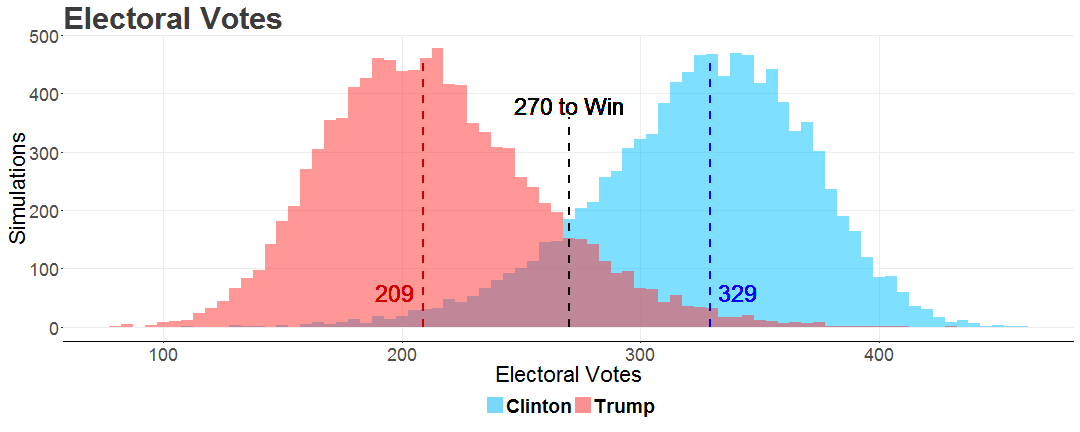
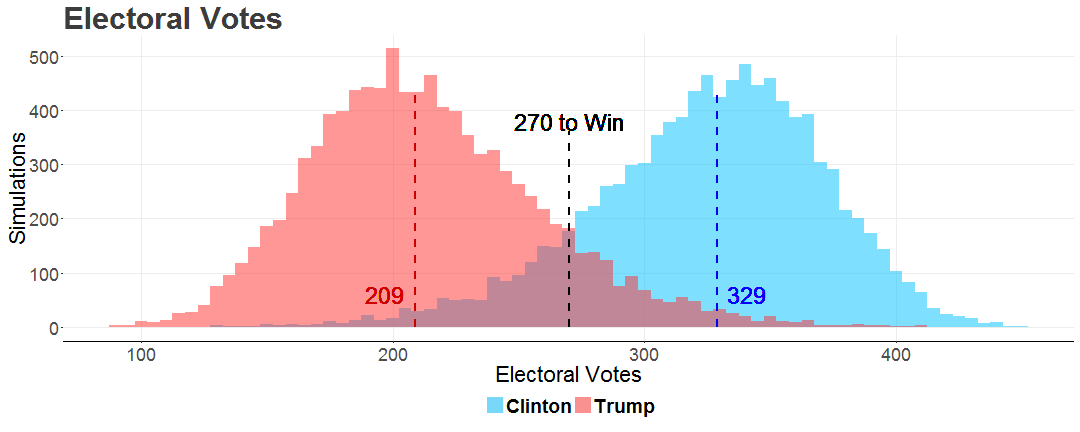
update

diff --git a/index.html b/index.html
@@ -266,7 +266,7 @@ table#t1 th {
           </div>
           <p></p>
       <div class="container" style="text-align: center;">
-        <h1><div class="alert alert-info" role="alert">Hillary Clinton has an 88.4% chance of being president</div></h1>    
+        <h1><div class="alert alert-info" role="alert">Hillary Clinton has an 88.3% chance of being president</div></h1>    
       </div>
         </div>
           <div style="text-align:right;">
@@ -420,7 +420,7 @@ table#t1 th {
           </tr>
           <tr id='t1'>
             <th id='t1'>Clinton victory while losing at least 1 swing state <small>(FL, VA, NC, PA, OH)</small></th>
-            <th id='t1'>66.2%</th>
+            <th id='t1'>65.8%</th>
           </tr>
           <tr id='t1'>
             <td id='t1'>Trump victory while losing at least 1 swing state <small>(FL, VA, NC, PA, OH)</small></td>
@@ -428,27 +428,27 @@ table#t1 th {
           </tr>
           <tr id='t1'>
             <th id='t1'>Clinton wins all 5 swing states</th>
-            <th id='t1'>22.5%</th>
+            <th id='t1'>22.6%</th>
           </tr>
           <tr id='t1'>
             <td id='t1'>Trump wins all 5 swing states</td>
-            <td id='t1'>0.6%</td>
+            <td id='t1'>0.7%</td>
           </tr>
           <tr id='t1'>
             <th id='t1'>Clinton outperforms Obama 2012 <small>(>332 EV)</small></th>
-            <th id='t1'>46.5%</th>
+            <th id='t1'>47.2%</th>
           </tr>
           <tr id='t1'>
             <td id='t1'>Trump outperforms Romney 2012 <small>(>206 EV)</small></td>
-            <td id='t1'>52.5%</td>
+            <td id='t1'>51.9%</td>
           </tr>
           <tr id='t1'>
             <th id='t1'>Clinton blowout <small>(>380 EV)</small></th>
-            <th id='t1'>9.2%</th>
+            <th id='t1'>9.5%</th>
           </tr>
           <tr id='t1'>
             <td id='t1'>Trump blowout <small>(>380 EV)</small></td>
-            <td id='t1'>0.1%</td>
+            <td id='t1'>0.2%</td>
           </tr>
         </table>
       
